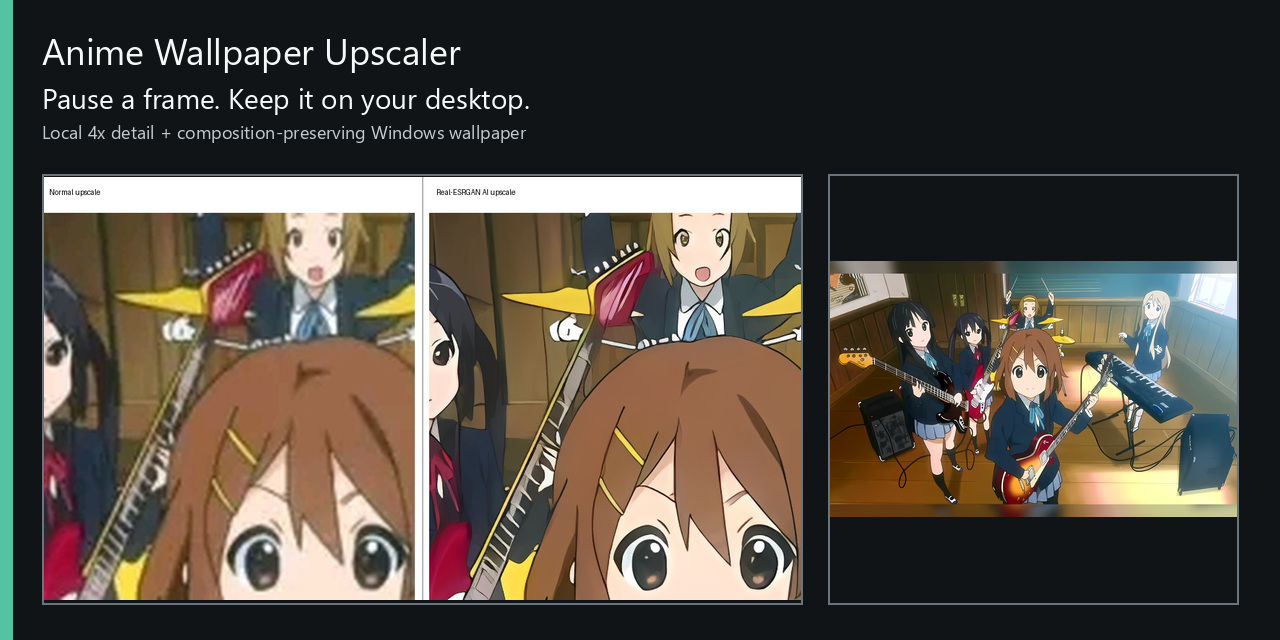
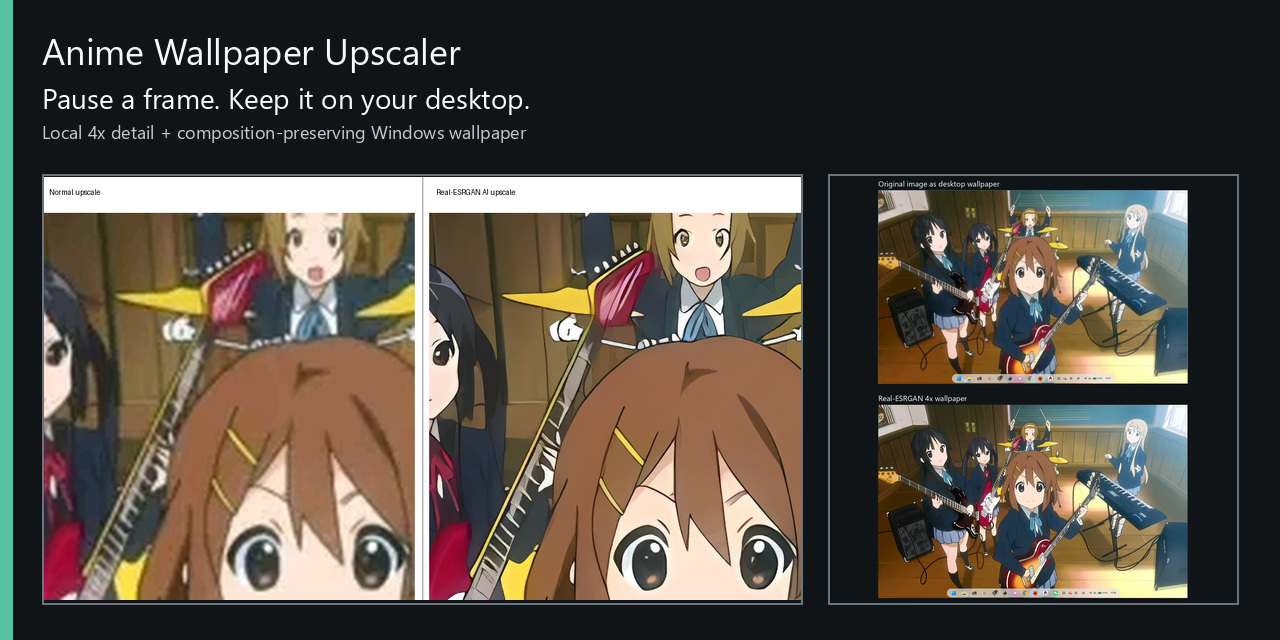
fix: build preview from selected comparisons

Changed region(s): [[0.625, 0.2812, 0.9688, 0.9375]]

diff --git a/scripts/build_promotion_assets.py b/scripts/build_promotion_assets.py
@@ -45,7 +45,7 @@ def _paste_contained(
     canvas.paste(contained, (x, y))
 
 
-def build_social_preview(detail: Path, wallpaper: Path, output: Path) -> None:
+def build_social_preview(detail: Path, desktop_comparison: Path, output: Path) -> None:
     canvas = Image.new("RGB", SIZE, BACKGROUND)
     draw = ImageDraw.Draw(canvas)
     draw.rectangle((0, 0, 12, SIZE[1]), fill=ACCENT)
@@ -58,7 +58,7 @@ def build_social_preview(detail: Path, wallpaper: Path, output: Path) -> None:
         font=_font(18),
     )
     _paste_contained(canvas, _open(detail), (42, 174, 802, 604))
-    _paste_contained(canvas, _open(wallpaper), (828, 174, 1238, 604))
+    _paste_contained(canvas, _open(desktop_comparison), (828, 174, 1238, 604))
     draw.rectangle((42, 174, 802, 604), outline="#69747c", width=2)
     draw.rectangle((828, 174, 1238, 604), outline="#69747c", width=2)
     output.parent.mkdir(parents=True, exist_ok=True)
@@ -68,10 +68,16 @@ def build_social_preview(detail: Path, wallpaper: Path, output: Path) -> None:
 def main() -> int:
     parser = argparse.ArgumentParser(description="Build the anime screenshot campaign preview.")
     parser.add_argument("--detail", required=True, type=Path)
-    parser.add_argument("--wallpaper", required=True, type=Path)
+    parser.add_argument(
+        "--desktop-comparison",
+        "--wallpaper",
+        dest="desktop_comparison",
+        required=True,
+        type=Path,
+    )
     parser.add_argument("--output", required=True, type=Path)
     args = parser.parse_args()
-    build_social_preview(args.detail, args.wallpaper, args.output)
+    build_social_preview(args.detail, args.desktop_comparison, args.output)
     return 0
 
 

diff --git a/tests/test_promotion_assets.py b/tests/test_promotion_assets.py
@@ -150,3 +150,17 @@ def test_promotion_social_preview_has_exact_dimensions(tmp_path: Path) -> None:
         assert sum(ImageStat.Stat(rendered).var) > 100
         assert rendered.getpixel((835, 389))[0] > 150
         assert rendered.getpixel((1230, 389))[2] > 150
+
+
+def test_checked_in_social_preview_uses_selected_comparison_assets(tmp_path: Path) -> None:
+    from scripts.build_promotion_assets import build_social_preview
+
+    rebuilt = tmp_path / "social-preview.jpg"
+    build_social_preview(
+        PROMOTION / "k-on-detail-comparison-4x.png",
+        PROMOTION / "k-on-desktop-comparison.png",
+        rebuilt,
+    )
+
+    checked_in = ROOT / "docs" / "assets" / "social-preview.jpg"
+    assert sha256(checked_in.read_bytes()).hexdigest() == sha256(rebuilt.read_bytes()).hexdigest()
